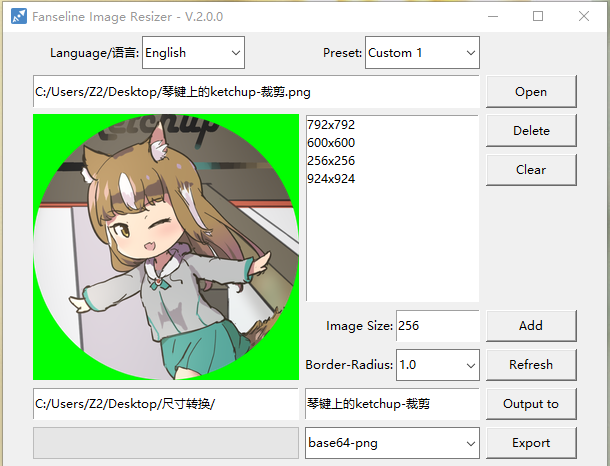
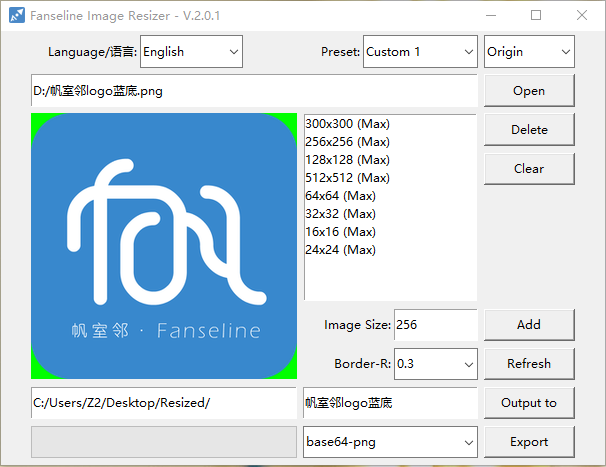
V201-Release

diff --git a/SourceCode/FanResizer.py b/SourceCode/FanResizer.py
@@ -1,6 +1,6 @@
-__version__ = "2.0.0"
+__version__ = "2.0.1"
 from LanguagePack import *
-from PIL import Image, ImageOps, ImageDraw
+from PIL import Image, ImageDraw, ImageChops
 import base64
 from io import BytesIO
 import FanWheel_Resizer as fw
@@ -27,7 +27,7 @@ b64_format_dict = "*.txt *.b64 *.base64"
 
 
 def loadImage(pathread):
-    global image_open
+    global image_open, image_preview
     if "*" + fw.getFileSuffix(pathread) in b64_format_dict.split(" "):
         print("base 64 file")
         data64 = open(pathread, "r")
@@ -41,8 +41,8 @@ def loadImage(pathread):
         if tk_output_path.get() is None or tk_output_path.get().replace(" ", "") == "":
             tk_output_path.set(fw.getFilePath(pathread) + lang["Resized"] + "/")
         tk_filename.set(fw.getFileName(pathread, False))
-        image_open = cropToCenter(image_open)
-        insertList(olist, [min(image_open.size)])
+        image_preview = cropToCenter(image_open, list_crop_mode.current(), 300)
+        insertList(olist, [min(image_preview.size)])
         refresh()
         viewer["bg"] = "#00FF00"
 
@@ -88,8 +88,8 @@ def addSize(*args):
         if add_width is not None:
             if add_width < 4:
                 add_width = 4
-            elif add_width > 10000:
-                add_width = 10000
+            elif add_width > 8000:
+                add_width = 8000
             add_width = int(add_width)
             insertList(olist, [add_width])
             tk_width.set("")
@@ -148,8 +148,8 @@ def saveConfig():
         "output_path": tk_output_path.get(),
         "filetype": tk_filetype.get(),
         "filename": tk_filename.get(),
+        "crop_mode": list_crop_mode.current(),
         "image_path": tk_image_path.get(),
-
     }
     try:
         directory = os.path.dirname("./")
@@ -179,6 +179,7 @@ def loadConfig():
             tk_output_path.set(vdic["output_path"])
             tk_filetype.set(vdic["filetype"])
             pathread = vdic["image_path"]
+            list_crop_mode.current(vdic["crop_mode"])
             try:
                 loadImage(pathread)
             except:
@@ -209,23 +210,24 @@ def resizing():
     log_content = lang["Export path:"] + "\n"
     log_content = log_content + fw.getFilePath(tk_output_path.get()) + "\n\n"
     log_content = log_content + lang["The following {0} image(s) were exported:"].format(len(size_list)) + "\n\n"
-    progress["value"] = (100 * ctr / len(size_list))
-    msize = max(max(size_list), image_open.size[0], image_open.size[1])
-    img_copy = image_open.resize((msize, msize), Image.ANTIALIAS)
+    progress["value"] = 0
+    image_crop = cropToCenter(image_open, list_crop_mode.current())
+    img_copy = resizeMax(image_crop, max(size_list))
     img_copy = cropRadius(img_copy, getRadius())
     for size in size_list:
-        temp_image = img_copy.resize((size, size), Image.ANTIALIAS)
+        temp_image = resizeMax(img_copy, size)
         if "jpg" in tk_filetype.get():
             temp_image = temp_image.convert("RGB")
         if (not "base64" in tk_filetype.get()) and (not "b64" in tk_filetype.get()):
-            path = combine_name + "_" + str(size) + "x" + str(size) + tk_filetype.get()
+            path = combine_name + "_" + str(temp_image.width) + "x" + str(temp_image.height) + tk_filetype.get()
             path = fw.protectPath(path)
             try:
                 temp_image.save(path, quality=100)
             except:
                 pass
         else:
-            path = combine_name + "_" + str(size) + "x" + str(size) + ".txt"
+            path = combine_name + "_" + str(temp_image.width) + "x" +\
+                   str(temp_image.height) + "_" + tk_filetype.get().replace("-", "_") + ".txt"
             formatb = tk_filetype.get().split("-")[-1].upper()
             if formatb == "JPG":
                 formatb = "JPEG"
@@ -237,7 +239,6 @@ def resizing():
                 base64_str = str(base64_str)[2:-1]
                 b64_file = open(path, "w")
                 b64_file.write(base64_str)
-
                 b64_file.close()
             except:
                 pass
@@ -286,7 +287,7 @@ def insertList(listbox, list_values):
     for index in list_values:
         if index in current_list:
             continue
-        list_name = "{0}x{1}".format(index, index)
+        list_name = "{0}x{1}".format(index, index)+lang[" (Max)"]
         listbox.insert(0, list_name)
 
     try:
@@ -337,9 +338,9 @@ def _resizeImage(event):
 
 
 def refresh(*args):
-    global image, image_open, image_prev, image_prev_tk, viewer
-    if image_open is not None:
-        image = cropRadius(image_open.resize((512, 512), Image.ANTIALIAS), getRadius())
+    global image, image_open, image_prev, image_prev_tk, viewer, image_preview
+    if image_preview is not None:
+        image = cropRadius(image_preview, getRadius())
         img_w, img_h = image.size
         win_w, win_h = viewer.winfo_width(), viewer.winfo_height()
         ratio = min(win_w / img_w, win_h / img_h)
@@ -351,20 +352,52 @@ def refresh(*args):
         viewer.configure(image=image_prev_tk)
 
 
-def cropToCenter(img):
-    width, height = img.size
-    square = min(width, height)
-    left = (width - square) / 2
-    top = (height - square) / 2
-    right = (width + square) / 2
-    bottom = (height + square) / 2
-    return img.crop((left, top, right, bottom))
+def refreshCrop(*args):
+    global image, image_open, image_prev, image_prev_tk, viewer, image_preview
+    mode = list_crop_mode.current()
+    if image_open is not None:
+        image_preview = cropToCenter(image_open, list_crop_mode.current(), 300)
+        refresh()
 
 
-def cropRadius(img, radius=0.0, size=None):
-    img = cropToCenter(img)
-    if size is not None:
-        img = img.resize((size, size), Image.ANTIALIAS)
+def resizeMax(img, maxsize=None):
+    if maxsize is not None:
+        ratio = max(img.size) / maxsize
+        newsize = int(round(img.size[0] / ratio)), int(round(img.size[1] / ratio))
+        img = img.resize(newsize, Image.ANTIALIAS)
+        return img
+    else:
+        return img
+
+
+def cropToCenter(img, mode=0, maxsize=None):
+    img = resizeMax(img, maxsize)
+
+    if mode == 0:
+        width, height = img.size
+        square = min(width, height)
+        left = (width - square) / 2
+        top = (height - square) / 2
+        right = (width + square) / 2
+        bottom = (height + square) / 2
+        return img.crop((left, top, right, bottom))
+    elif mode == 1:
+        psize = max(img.size)
+        _canvas = Image.new("RGBA", (psize, psize), (0, 0, 0, 0))
+        _x = (psize - img.width) // 2
+        _y = (psize - img.height) // 2
+        _canvas.paste(img, (_x, _y), img)
+        return _canvas
+    elif mode == 2:
+        width, height = img.size
+        square = min(width, height)
+        return img.resize((square, square), Image.ANTIALIAS)
+    elif mode == 3:
+        return img
+
+
+def cropRadius(img, radius=0.0):
+    img = img.copy()
     if radius > 1:
         radius = 1
     elif radius < 0:
@@ -373,20 +406,24 @@ def cropRadius(img, radius=0.0, size=None):
     if radius != 0:
         scale = 8  # Antialiasing Drawing
         size_anti = width * scale, height * scale
-        r = int(round(radius * width * scale / 2))
-        mask = Image.new('L', size_anti, 0)
+        r = int(round(radius * min(width, height) * scale / 2))
+        old_mask = img.split()[-1].resize(size_anti)
+        mask = Image.new('L', size_anti, 255)
         draw = ImageDraw.Draw(mask)
-        draw.rectangle((0, r, size_anti[0], size_anti[1] - r), fill=255)
-        draw.rectangle((r, 0, size_anti[0] - r, size_anti[1]), fill=255)
-        draw.ellipse((0, 0, 2 * r, 2 * r), fill=255)
-        draw.ellipse((0 + size_anti[0] - 2 * r, 0, 2 * r + size_anti[0] - 2 * r, 2 * r), fill=255)
-        draw.ellipse((0, 0 + size_anti[1] - 2 * r, 2 * r, 2 * r + size_anti[1] - 2 * r), fill=255)
+        draw.rectangle((0, r, size_anti[0], size_anti[1] - r), fill=0)
+        draw.rectangle((r, 0, size_anti[0] - r, size_anti[1]), fill=0)
+        draw.ellipse((0, 0, 2 * r, 2 * r), fill=0)
+        draw.ellipse((0 + size_anti[0] - 2 * r, 0, 2 * r + size_anti[0] - 2 * r, 2 * r), fill=0)
+        draw.ellipse((0, 0 + size_anti[1] - 2 * r, 2 * r, 2 * r + size_anti[1] - 2 * r), fill=0)
         draw.ellipse((0 + size_anti[0] - 2 * r, 0 + size_anti[1] - 2 * r, 2 * r + size_anti[0] - 2 * r,
-                      2 * r + size_anti[1] - 2 * r), fill=255)
+                      2 * r + size_anti[1] - 2 * r), fill=0)
+        try:
+            mask = ImageChops.subtract(old_mask, mask)
+        except Exception as e:
+            print(e)
         mask = mask.resize((width, height), Image.ANTIALIAS)
-        output = ImageOps.fit(img, mask.size, centering=(0.5, 0.5))
-        output.putalpha(mask)
-        return output
+        img.putalpha(mask)
+        return img
     else:
         return img
 
@@ -422,6 +459,7 @@ if __name__ == '__main__':
         root = tk.Tk()
 
         image_open = None
+        image_preview = None
         image = None
         image_prev = None
         image_prev_tk = None
@@ -436,6 +474,8 @@ if __name__ == '__main__':
         tk_lang = tk.StringVar()
         tk_preset = tk.StringVar()
         tk_filetype = tk.StringVar()
+        tk_crop_mode = tk.StringVar()
+        reset_crop = False
 
         tk_width = tk.IntVar(value=256)
         tk_radius = tk.DoubleVar(value=0.0)
@@ -479,6 +519,12 @@ if __name__ == '__main__':
         list_preset.set(lang["-Please Select-"])
         list_preset.place(relwidth=0.19, relheight=relh, relx=0.6, rely=rely, anchor='nw')
 
+        list_crop_mode = ttk.Combobox(master=frame1, textvariable=tk_crop_mode, state="readonly")
+        list_crop_mode["values"] = (lang["Zoom In"], lang["Zoom Out"], lang["Stretch"], lang["Origin"])
+        list_crop_mode.place(relwidth=0.15, relheight=relh, relx=0.8, rely=rely, anchor='nw')
+        list_crop_mode.current(0)
+        list_crop_mode.bind("<<ComboboxSelected>>", refreshCrop)
+
         rely += devy
         entry_img = tk.Entry(master=frame1, textvariable=tk_image_path)
         entry_img.place(relwidth=0.74, relheight=relh, relx=0.05, rely=rely, anchor='nw')
@@ -514,7 +560,7 @@ if __name__ == '__main__':
 
         rely += devy
 
-        label_radius = tk.Label(master=frame1, textvariable=tk.StringVar(value=lang["Border-Radius:"]), anchor="e")
+        label_radius = tk.Label(master=frame1, textvariable=tk.StringVar(value=lang["Border-R:"]), anchor="e")
         label_radius.place(relwidth=0.15, relheight=relh, relx=0.5, rely=rely, anchor='nw')
         list_radius = ttk.Combobox(master=frame1, textvariable=tk_radius)
         list_radius.place(relwidth=0.14, relheight=relh, relx=0.65, rely=rely, anchor='nw')

diff --git a/SourceCode/LanguagePack.py b/SourceCode/LanguagePack.py
@@ -13,7 +13,7 @@ lang_cn_s = {
     "Delete": "删除",
     "Clear": "清空",
     "Image Size:": "图片尺寸：",
-    "Border-Radius:": "圆角：",
+    "Border-R:": "圆角：",
     "Output to": "输出到",
     "Export": "导出",
     "Refresh": "刷新",
@@ -24,9 +24,15 @@ lang_cn_s = {
     "Image files": "图片文件",
     "Custom": "自定义",
     "Resized": "尺寸转换",
-    "Resize_Log":"转换记录",
-    "Export path:":"输出路径：",
-    "The following {0} image(s) were exported:":"下列{0}个文件被导出：",
+    "Resize_Log": "转换记录",
+    "Export path:": "输出路径：",
+    "The following {0} image(s) were exported:": "下列{0}个文件被导出：",
+
+    "Zoom In": "放大",
+    "Zoom Out": "缩小",
+    "Stretch": "拉伸",
+    "Origin": "原始",
+    " (Max)": " (最大)",
 }
 
 lang_keys = list(lang_cn_s.keys())
